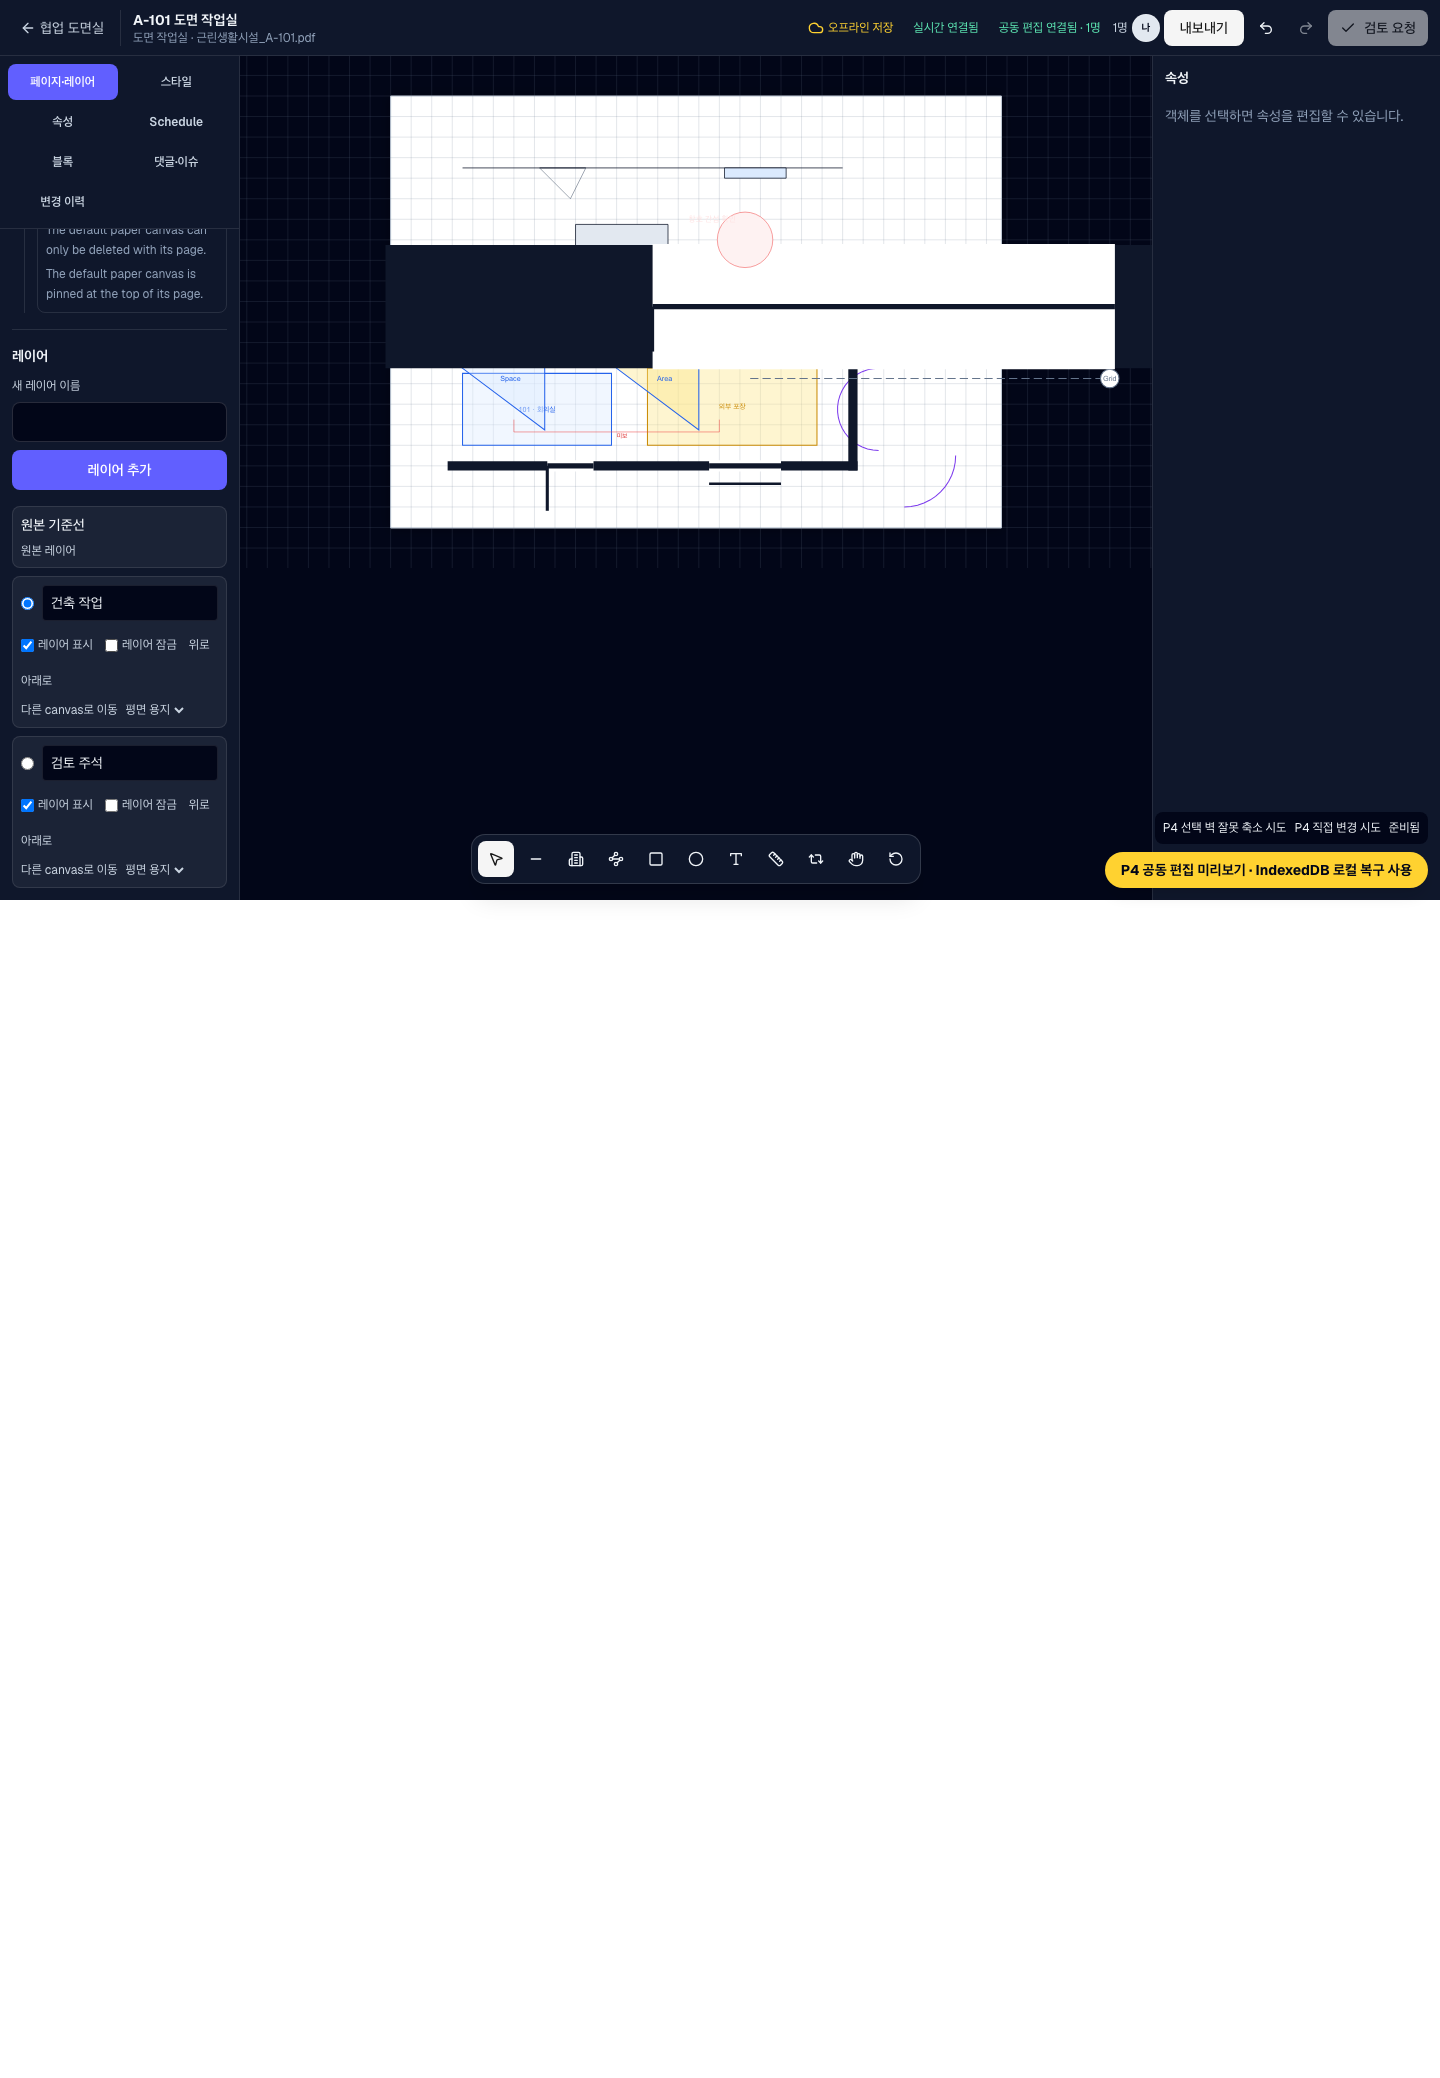
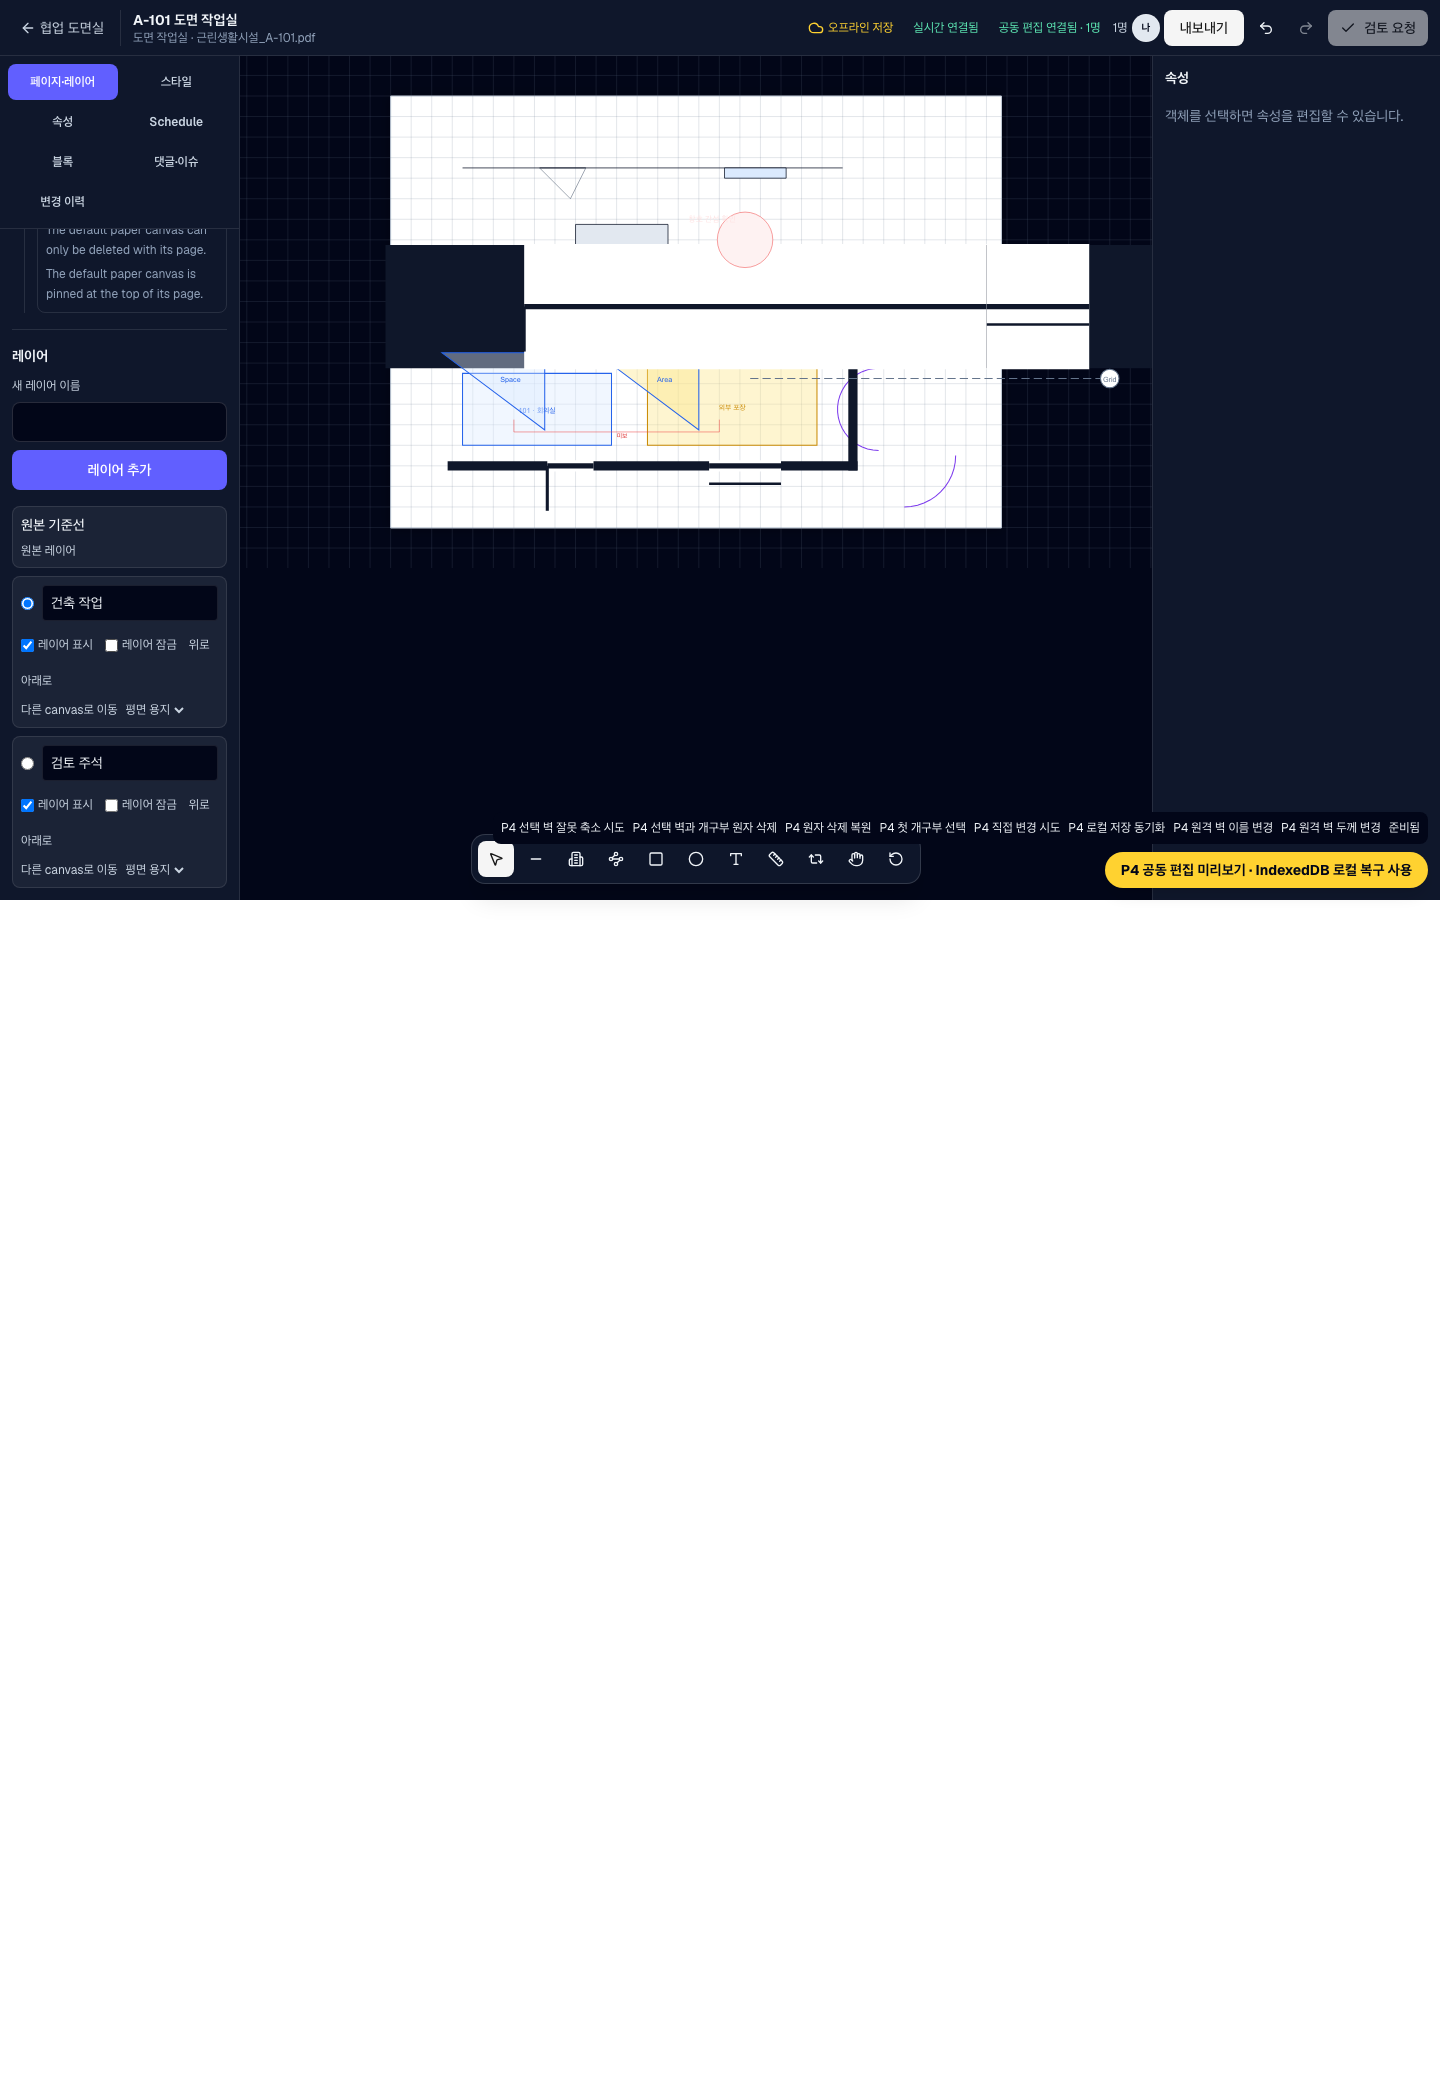
docs: record P4 final review closure

Changed region(s): [[0.3125, 0.0924, 0.4688, 0.1848], [0.75, 0.0924, 0.7812, 0.1848], [0.8438, 0.3696, 0.875, 0.4004]]

diff --git a/.superpowers/sdd/2026-08-26-drawing-workspace-p4/p4-final-fix-report.md b/.superpowers/sdd/2026-08-26-drawing-workspace-p4/p4-final-fix-report.md
@@ -1,0 +1,105 @@
+# Drawing Workspace P4 final broad-review fix report
+
+Date: 2026-08-27
+Reviewed source: `91651890d084afc089976df9539ab0803df5234b`
+Product fix: `cce27e7df7fd6f6393f7924ce08a54c7b99f0316`
+
+## Implemented result
+
+- **I1 — exact object-name authority parity.** `DrawingObjectNameSchema` and
+  PostgreSQL now agree on nonempty, exact JavaScript `trim()` boundaries,
+  255-or-fewer UTF-16 code units, Unicode scalar validity, NUL rejection, and
+  the existing interior whitespace/control policy. A Supabase-CLI-created
+  forward migration replaces only the private name helper, preflights existing
+  rows, reinstalls the object check constraint through that helper, and revokes
+  helper execution from API roles. No committed migration was edited and no new
+  public RPC was added.
+- **I2 — distinct property applicability.** The TypeScript property schema now
+  rejects duplicate `appliesTo` values exactly as PostgreSQL does, while the
+  complete existing primitive/P4/block-instance target set remains valid.
+- **I3 — dependency-aware render order.** The shared live/export adapter now
+  performs a stable host dependency ordering across all same-canvas layers.
+  Every hosted opening follows its wall regardless of authored layer or UUID,
+  unrelated items retain their relative order, and an opening inherits a
+  hidden host wall's invisibility. Live canvas, SVG, PNG, and PDF all continue
+  to consume this one adapter.
+- **M1 — bounded semantic labels.** One deterministic, font-independent layout
+  computes bounded lines, hard token splits, an ellipsis, height, and rotation.
+  Konva and SVG/Canvas-backed PNG/PDF consume those exact lines and clipping
+  bounds. SVG keeps the unabridged semantic label in `aria-label`; the live
+  canvas continues to expose the unabridged object name through its screen
+  reader object list.
+- No dependency, lockfile, state manager, CRDT protocol, public API, or P5 file
+  changed.
+
+## TDD and parity evidence
+
+- The initial focused red run had six intended failures: cross-layer host
+  ordering, hidden-host visibility, missing bounded label lines, NUL/unpaired
+  Unicode name parity, and two duplicate-`appliesTo` mutations. The migration
+  contract separately failed because no final forward migration existed.
+- The shared deterministic name corpus covers BMP and non-BMP UTF-16
+  boundaries, 32 randomized mixed Unicode/interior-whitespace/control names,
+  every ECMAScript trim code point at both boundaries and alone, NUL, lone
+  surrogates, and the non-trim U+180E case.
+- PGlite executes the complete P0-through-P4 migration chain and proves exact
+  Zod/private-helper parity, authenticated RPC acceptance/rejection, atomic
+  rejection with no object/operation residue, and strict loader reload of every
+  accepted row. The populated P0-P3 upgrade remains byte/data stable.
+- The shared property corpus proves valid compatibility and duplicate
+  rejection in Zod, the SQL helper, and the authenticated mutation RPC with no
+  property/operation residue.
+- Sixty-four randomized layer/UUID adapter graphs and 32 randomized export
+  graphs prove cross-layer host precedence and stable unrelated ordering. The
+  real browser export test asserts the opening cut pixels in SVG, PNG, and PDF
+  when the opening is authored below its wall.
+- The long-label regression asserts the exact three-line layout and height,
+  clipping, SVG full-label accessibility, and identical Canvas/PNG/PDF
+  `fillText` line sequences. Chromium also verifies the updated accessible SVG
+  grid-label structure.
+
+## Fresh local verification
+
+- Focused product/database/server run: **232/232 passed**.
+- Database/server broad run: **200/200 passed**.
+- Serial Drawing Workspace suite: **640 passed, 0 failed, 1 skipped**. The skip
+  is explicitly `UNEXECUTED: disposable PostgreSQL concurrency fixture is not
+  configured`.
+- Whole Node suite: exit `0`.
+- Collaboration service: **33/33 passed**. Explicit
+  IFC/PDF/quantity/approval/Revit regressions: **99/99 passed**. License
+  closure: **7/7 passed**.
+- Application and collaboration typechecks and builds: exit `0`.
+- Chromium functional/IndexedDB: **9/9 passed**. Production-build 10,000-object
+  benchmark: **1/1 passed**. The exact local release orchestrator ended with
+  **`P4 LOCAL PASS`**.
+- Application high-severity audit exited `0` with the established three
+  moderate `ajv` findings and no available fix; collaboration audit reported
+  zero vulnerabilities. `git diff --check` passed.
+- One intentionally parallel preliminary drawing run exceeded the existing
+  250 ms 1,000-item timing budget at 256.9 ms while competing with the whole
+  suite and both builds. It passed at 103.9 ms alone and 224.9 ms in the fresh
+  serial full suite; the exact serial release runner also passed it at 195.8
+  ms. No product or threshold change was made for that contention-only result.
+
+## Honest status separation
+
+- **LOCAL IMPLEMENTATION: PASS.** I1-I3 and M1 are closed by product changes,
+  mutation-resistant focused tests, strict database/runtime reload coverage,
+  browser pixels, and the exact local release contract.
+- **REAL POSTGRESQL: UNEXECUTED.** No
+  `P3_POSTGRES_CONCURRENCY_DATABASE_URL`, actor/project fixture, or local
+  PostgreSQL/Docker/Podman executable was available. PGlite coverage is not
+  relabelled as real PostgreSQL evidence.
+- **PRODUCTION: UNEXECUTED.** The credential-free production command exited
+  `1` before Playwright with `P4 production gate is UNEXECUTED` and listed the
+  required hosted authorities. Hosted provider convergence, provider p95,
+  production RLS/freeze/source checks, cleanup, deployment, and rollback are
+  not claimed.
+- **PERFORMANCE TARGET: NOT MET, unchanged in meaning.** Fresh source-bound
+  local evidence records first usable at `5696.099999964237 ms` versus the
+  `2500 ms` target (`firstUsableTargetMet: false`). P7 60 fps and production
+  provider p95 remain `UNEXECUTED`.
+
+The branch and worktree are intentionally preserved for the parent integration
+workflow.
